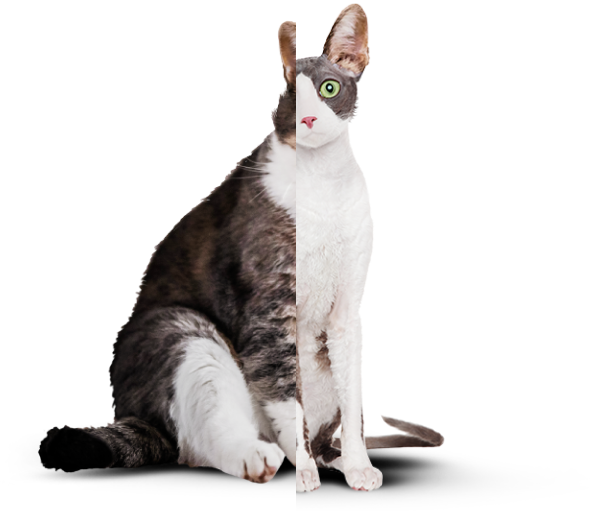
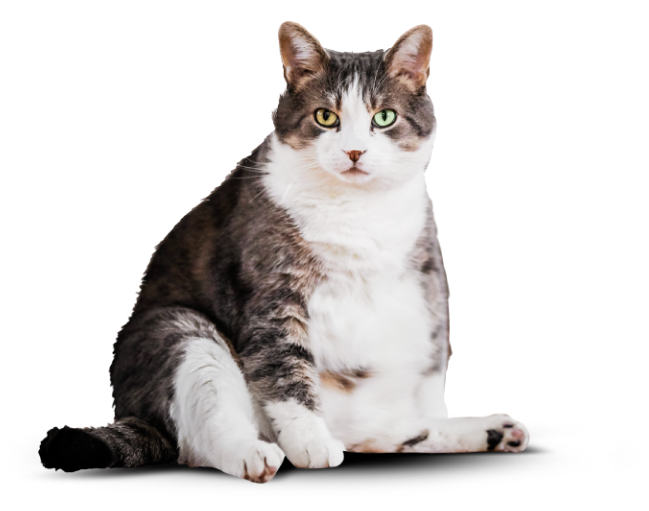
Векторная графика и оптимизация

Changed region(s): [[0.0609, 0.0, 0.8528, 0.9687]]

diff --git a/source/index.html b/source/index.html
@@ -45,6 +45,9 @@
         <h1 class="main-logo__title">Функциональное питание для котов</h1>
         <p class="main-logo__subtitle">Занялся собой? Займись котом!</p>
         <picture>
+          <source type="image/webp" media="(min-width: 1440px)" srcset="img/main-logo-desktop.webp 1x, img/main-logo-desktop@2x.webp 2x">
+          <source type="image/webp" media="(min-width: 768px)" srcset="img/main-logo-tablet.webp 1x, img/main-logo-tablet@2x.webp 2x">
+          <source type="image/webp" srcset="img/main-logo-mobile.webp 1x, img/main-logo-mobile@2x.webp 2x" width="280" height="270" alt="Банка корма.">
           <source media="(min-width: 1440px)" srcset="img/main-logo-desktop.png 1x, img/main-logo-desktop@2x.png 2x">
           <source media="(min-width: 768px)" srcset="img/main-logo-tablet.png 1x, img/main-logo-tablet@2x.png 2x">
           <img class="main-logo__image" src="img/main-logo-mobile.png" srcset="img/main-logo-mobile@2x.png 2x" width="280" height="270" alt="Банка корма.">
@@ -108,10 +111,17 @@
           </div>
         </div>
         <div class="main-example__range-wrapper">
-          <picture>
-            <source media="(min-width: 768px)" srcset="img/image-cat-tablet.png 1x, img/image-cat-tablet@2x.png 2x">
-            <img class="main-example__range-image" src="img/fat-cat-mobile.png" srcset="img/fat-cat-mobile@2x.png 2x" width="280" height="232" alt="фото толстого кота.">
-          </picture>
+          <div class="main-example__image-wrapper">
+            <div class="main-example__fat-cat-wrapper">
+              <picture>
+                <source media="(min-width: 768px)" srcset="img/image-cat-tablet.png 1x, img/image-cat-tablet@2x.png 2x">
+                <img class="main-example__fat-cat-image" src="img/fat-cat-mobile.png" srcset="img/fat-cat-mobile@2x.png 2x" width="280" height="232" alt="фото толстого кота.">
+              </picture>
+            </div>
+            <div class="main-example__skinny-cat-wrapper">
+              <img class="main-example__skinny-cat-image" src="img/skinny-cat-tablet.png" srcset="img/skinny-cat-tablet@2x.png 2x" alt="фото худого кота.">
+            </div>
+          </div>
           <div class="main-example__range-slider">
             <button class="main-example__button">было</button>
             <span class="visually-hidden">было</span>
@@ -150,24 +160,24 @@
         <ul class="social-container__list">
           <li class="social-container__item">
             <a href="#" class="social-container__link">
-              <svg class="social-container__image" width="23" height="16" viewBox="0 0 23 16" fill="none" xmlns="http://www.w3.org/2000/svg">
-                <path class="social-container__image" d="M0.0700912 3.99266C0.0700912 3.37082 0.493211 3.03552 1.33945 2.98675L4.60039 3.00503C4.81925 3.00503 4.96515 3.09648 5.03811 3.27938C5.37368 4.19385 5.74938 4.98334 6.16521 5.64785C6.58103 6.31237 7.12453 7.07747 7.79568 7.94317C7.85404 8.05291 7.94888 8.10778 8.08019 8.10778C8.18233 8.10778 8.26257 8.0651 8.32093 7.97975L8.38659 7.77857L8.40848 4.6145C8.40848 4.39503 8.34647 4.24871 8.22245 4.17556C8.09843 4.1024 7.86863 4.04753 7.53305 4.01095C7.27043 3.97437 7.13912 3.84025 7.13912 3.60859C7.13912 3.55981 7.14641 3.52323 7.161 3.49885C7.4674 2.70631 8.34282 2.31004 9.78726 2.31004L11.0129 2.29175C11.5673 2.29175 12.0269 2.40758 12.3916 2.63925C12.7564 2.87091 12.9388 3.2367 12.9388 3.73661V7.88831C13.0409 7.94927 13.1357 7.97975 13.2233 7.97975C13.4421 7.97975 13.6318 7.87002 13.7923 7.65054C15.3973 5.77283 16.2654 4.51696 16.3967 3.88293C16.3967 3.87073 16.4113 3.84025 16.4405 3.79148C16.5426 3.60859 16.7104 3.45008 16.9438 3.31595C17.1773 3.18183 17.3815 3.09039 17.5566 3.04161C17.615 3.01723 17.6806 3.00503 17.7536 3.00503H21.1459L21.3647 3.02332C21.6565 3.02332 21.8827 3.13916 22.0432 3.37082C22.1015 3.44398 22.1416 3.52323 22.1635 3.60859C22.1854 3.69394 22.2 3.77929 22.2073 3.86464C22.2146 3.94999 22.2182 3.99876 22.2182 4.01095V4.13898C22.1161 4.63889 21.8571 5.17233 21.4413 5.7393C21.0255 6.30627 20.4966 6.91897 19.8546 7.57739C19.2126 8.2358 18.8114 8.66865 18.6509 8.87593C18.5196 9.02225 18.4539 9.15637 18.4539 9.2783C18.4539 9.37584 18.5123 9.48558 18.629 9.60751L21.8243 12.9728C21.9994 13.1678 22.0869 13.3812 22.0869 13.6129C22.0869 13.8933 21.9556 14.125 21.693 14.3079C21.4304 14.4908 21.1167 14.5944 20.7519 14.6188L20.3799 14.6371H17.0533C17.0387 14.6371 17.0095 14.6401 16.9657 14.6462C16.9219 14.6523 16.8928 14.6554 16.8782 14.6554C16.5572 14.6554 16.2581 14.5396 15.9809 14.3079C15.8787 14.2103 15.193 13.491 13.9236 12.1497C13.8507 12.0644 13.7485 11.9851 13.6172 11.912C13.5589 12.1071 13.4823 12.3875 13.3874 12.7533C13.2926 13.1191 13.2233 13.3812 13.1795 13.5397L13.1139 13.8507C12.968 14.2774 12.6616 14.5335 12.1947 14.6188L11.8883 14.6371H9.74349C8.53249 14.6371 7.32514 14.1738 6.12144 13.2471C4.91773 12.3204 3.8344 11.1225 2.87144 9.65323C1.90848 8.18398 1.01117 6.47392 0.179519 4.52306C0.106567 4.36455 0.0700912 4.18775 0.0700912 3.99266ZM13.2233 8.72962C12.9169 8.72962 12.6397 8.65951 12.3916 8.51929C12.1436 8.37907 12.0196 8.18703 12.0196 7.94317V3.73661C12.0196 3.49275 11.9466 3.319 11.8007 3.21536C11.6548 3.11172 11.3995 3.0599 11.0347 3.0599L9.78726 3.09648C9.15988 3.09648 8.68569 3.18793 8.3647 3.37082C9.00668 3.62687 9.32767 4.04143 9.32767 4.6145V7.83344C9.29849 8.13826 9.15258 8.39126 8.88996 8.59245C8.62733 8.79363 8.33552 8.89422 8.01454 8.89422C7.57683 8.89422 7.24125 8.71742 7.0078 8.36383C5.86975 6.92506 5.02351 5.55945 4.46908 4.267L4.27211 3.79148L1.36134 3.77319C1.17166 3.77319 1.06588 3.78233 1.044 3.80062C1.02211 3.81891 1.01117 3.87073 1.01117 3.95608C1.01117 4.06582 1.02576 4.18165 1.05494 4.30358L1.51454 5.32779C2.74013 7.97366 4.07149 10.0586 5.50864 11.5828C6.94579 13.1069 8.35741 13.8689 9.74349 13.8689H11.932C12.0196 13.8689 12.0852 13.8476 12.129 13.8049C12.1728 13.7623 12.2093 13.6799 12.2384 13.558L12.2822 13.3751L12.698 11.7657C12.8148 11.5462 12.9169 11.3999 13.0044 11.3267C13.1649 11.1926 13.3546 11.1255 13.5735 11.1255C13.9236 11.1255 14.2811 11.3023 14.6458 11.6559L16.5061 13.6312C16.6228 13.7897 16.7469 13.8689 16.8782 13.8689H20.4893C20.927 13.8689 21.1459 13.7775 21.1459 13.5946C21.1459 13.5336 21.124 13.4727 21.0802 13.4117L17.9068 10.1013C17.6588 9.84527 17.5347 9.57093 17.5347 9.2783C17.5347 8.98567 17.6515 8.70523 17.8849 8.43699C18.0746 8.19313 18.443 7.78771 18.9901 7.22074C19.5373 6.65377 20.0151 6.12338 20.4236 5.62956C20.8322 5.13575 21.1021 4.68766 21.2334 4.28529L21.299 4.04753C21.2845 4.02314 21.2772 3.98352 21.2772 3.92865C21.2772 3.87378 21.2699 3.82806 21.2553 3.79148H17.8193C17.6004 3.86464 17.4253 3.97437 17.294 4.12069L17.1627 4.46819C16.7979 5.3095 15.8423 6.60805 14.2957 8.36383C13.9893 8.60769 13.6318 8.72962 13.2233 8.72962Z" fill="#666666"/>
-                </svg>
+              <svg class="social-container__image" width="23" height="16" viewBox="0 0 23 16" fill="none">
+                <use xlink:href="img/sprite.svg#vk"></use>
+              </svg>
               <span class="visually-hidden">vkontakte</span>
             </a>
           </li>
           <li class="social-container__item">
             <a href="#" class="social-container__link">
-              <svg class="social-container__image" width="16" height="16" viewBox="0 0 16 16" fill="none" xmlns="http://www.w3.org/2000/svg">
-                <path class="social-container__image" d="M7.98438 0.0625C9.31771 0.0625 10.4062 0.078125 11.25 0.109375C11.9688 0.140625 12.6094 0.265625 13.1719 0.484375C13.7135 0.692708 14.1823 0.994792 14.5781 1.39062C14.974 1.78646 15.276 2.25521 15.4844 2.79687C15.7031 3.35937 15.8281 4 15.8594 4.71875C15.8906 5.5625 15.9062 6.65104 15.9062 7.98437C15.9062 9.31771 15.8906 10.4062 15.8594 11.25C15.8281 11.9687 15.7031 12.6094 15.4844 13.1719C15.276 13.7135 14.974 14.1823 14.5781 14.5781C14.1823 14.974 13.7135 15.276 13.1719 15.4844C12.6094 15.7031 11.9688 15.8281 11.25 15.8594C10.4062 15.8906 9.31771 15.9062 7.98438 15.9062C6.65104 15.9062 5.5625 15.8906 4.71875 15.8594C4 15.8281 3.35938 15.7031 2.79688 15.4844C2.25521 15.276 1.78646 14.974 1.39062 14.5781C0.994792 14.1823 0.692708 13.7135 0.484375 13.1719C0.265625 12.6094 0.140625 11.9687 0.109375 11.25C0.078125 10.4062 0.0625 9.31771 0.0625 7.98437C0.0625 6.65104 0.078125 5.5625 0.109375 4.71875C0.140625 4 0.265625 3.35937 0.484375 2.79687C0.692708 2.25521 0.994792 1.78646 1.39062 1.39062C1.78646 0.994792 2.25521 0.692708 2.79688 0.484375C3.35938 0.265625 4 0.140625 4.71875 0.109375C5.5625 0.078125 6.65104 0.0625 7.98438 0.0625ZM7.98438 1.09375C6.59896 1.09375 5.46875 1.10937 4.59375 1.14062C4.03125 1.16146 3.51042 1.26042 3.03125 1.4375C2.28125 1.75 1.75 2.28125 1.4375 3.03125C1.26042 3.51042 1.16146 4.03125 1.14062 4.59375C1.10938 5.46875 1.09375 6.59896 1.09375 7.98437C1.09375 9.36979 1.10938 10.5 1.14062 11.375C1.16146 11.9375 1.26042 12.4583 1.4375 12.9375C1.75 13.6875 2.28125 14.2187 3.03125 14.5312C3.51042 14.7083 4.03125 14.8073 4.59375 14.8281C5.46875 14.8594 6.59896 14.875 7.98438 14.875C9.36979 14.875 10.5 14.8594 11.375 14.8281C11.9375 14.8073 12.4583 14.7083 12.9375 14.5312C13.6875 14.2187 14.2188 13.6875 14.5312 12.9375C14.7083 12.4583 14.8073 11.9375 14.8281 11.375C14.8594 10.5 14.875 9.36979 14.875 7.98437C14.875 6.59896 14.8594 5.46875 14.8281 4.59375C14.8073 4.03125 14.7083 3.51042 14.5312 3.03125C14.2188 2.28125 13.6875 1.75 12.9375 1.4375C12.4583 1.26042 11.9375 1.16146 11.375 1.14062C10.5 1.10937 9.36979 1.09375 7.98438 1.09375ZM7.98438 11.1562C8.85938 11.1562 9.60677 10.8464 10.2266 10.2266C10.8464 9.60677 11.1562 8.85937 11.1562 7.98437C11.1562 7.10937 10.8464 6.36198 10.2266 5.74219C9.60677 5.1224 8.85938 4.8125 7.98438 4.8125C7.10938 4.8125 6.36198 5.1224 5.74219 5.74219C5.1224 6.36198 4.8125 7.10937 4.8125 7.98437C4.8125 8.85937 5.1224 9.60677 5.74219 10.2266C6.36198 10.8464 7.10938 11.1562 7.98438 11.1562ZM7.98438 3.92187C9.10938 3.92187 10.0677 4.31771 10.8594 5.10937C11.651 5.90104 12.0469 6.85937 12.0469 7.98437C12.0469 9.10937 11.651 10.0677 10.8594 10.8594C10.0677 11.651 9.10938 12.0469 7.98438 12.0469C6.85938 12.0469 5.90104 11.651 5.10938 10.8594C4.31771 10.0677 3.92188 9.10937 3.92188 7.98437C3.92188 6.85937 4.31771 5.90104 5.10938 5.10937C5.90104 4.31771 6.85938 3.92187 7.98438 3.92187ZM13.1719 3.76562C13.1719 4.02604 13.0781 4.2474 12.8906 4.42969C12.7031 4.61198 12.474 4.70312 12.2031 4.70312C11.9427 4.70312 11.7214 4.61198 11.5391 4.42969C11.3568 4.2474 11.2656 4.02604 11.2656 3.76562C11.2656 3.49479 11.3568 3.26562 11.5391 3.07812C11.7214 2.89062 11.9427 2.79687 12.2031 2.79687C12.4635 2.79687 12.6901 2.89323 12.8828 3.08594C13.0755 3.27865 13.1719 3.50521 13.1719 3.76562Z" fill="#666666"/>
-                </svg>
+              <svg class="social-container__image" width="16" height="16" viewBox="0 0 16 16" fill="none">
+                <use xlink:href="img/sprite.svg#instagram"></use>
+              </svg>
               <span class="visually-hidden">instagram</span>
             </a>
           </li>
           <li class="social-container__item">
             <a href="#" class="social-container__link">
               <svg class="social-container__image" width="13" height="20" viewBox="0 0 13 20" fill="none" xmlns="http://www.w3.org/2000/svg">
-                <path class="social-container__image" d="M11.5 0.833252H8.75001C7.53443 0.833252 6.36864 1.30674 5.5091 2.14957C4.64956 2.99239 4.16667 4.1355 4.16667 5.32743V8.02394H1.41667V11.6193H4.16667V18.81H7.83334V11.6193H10.5833L11.5 8.02394H7.83334V5.32743C7.83334 5.08905 7.92992 4.86042 8.10182 4.69186C8.27373 4.52329 8.50689 4.4286 8.75001 4.4286H11.5V0.833252Z" stroke="#666666" stroke-width="1.1" stroke-linecap="round" stroke-linejoin="round"/>
+                <use xlink:href="img/sprite.svg#facebook"></use>
                 </svg>
               <span class="visually-hidden">facebook</span>
             </a>
@@ -177,7 +187,8 @@
       <div class="page-footer__academy-container">
         <a class="page-footer__academy-link" href="#">HTML Academy</a>
         <a class="page-footer__academy-link-logo" href="#">
-          <svg width="27" height="34" fill="none" xmlns="http://www.w3.org/2000/svg"><path class="academy-logo" d="M13.64.02L13.5 0 0 1.4v24.61L13.5 34 27 26.01V1.41L13.64 0zm11.6 25L13.5 31.96 1.77 25.02v-10.1l11.68 6.93.02 1.25-8.02-4.75v1.23l8.04 4.8.02 1.3-8.05-4.76v1.22l8.04 4.81 8.12-4.83V16.9l3.62-2.15v10.26zm0-11.57L22 15.33l-1.48.88-7.06-4.19-.01 1.23 6.04 3.57-.06.03-.13.07-.86.5-4.98-2.95-.01 1.22 3.93 2.33-.93.61-.02.01-2.97-1.74-.01 1.23 1.94 1.13-1.98 1.19L1.8 13.58l11.63-6.96 11.8 6.83zm0-1.22L13.43 5.3 1.77 12.22V2.99L13.5 1.76 25.23 3v9.24z" fill="#666"/></svg>
+          <svg width="27" height="34" fill="none" xmlns="http://www.w3.org/2000/svg"><use xlink:href="img/sprite.svg#html-logo"></use>
+          </svg>
         </a>
       </div>
     </div>

diff --git a/source/less/blocks/main-example.less b/source/less/blocks/main-example.less
@@ -265,22 +265,65 @@
   }
 }
 
-.main-example__range-image {
-  margin-bottom: 20px;
+.main-example__image-wrapper {
+  @media (min-width: @tablet-width) {
+    display: flex;
+    width: 592px;
+    height: 520px;
+    position: absolute;
+    top: -169px;
+  }
+
+  @media (min-width: @desktop-width) {
+    display: flex;
+    width: 592px;
+    height: 520px;
+    position: absolute;
+    top: -182px;
+    left: 85px;
+  }
+}
+
+.main-example__fat-cat-wrapper {
+  @media (min-width: @tablet-width) {
+    position: relative;
+    width: 296px;
+    height: 511px;
+    overflow: hidden;
+  }
+}
+
+.main-example__skinny-cat-wrapper {
+  @media (max-width: @mobile-width-only) {
+    display: none;
+  }
+
+  display: flex;
+  justify-content: flex-end;
+  position: absolute;
+  top: 0;
+  right: 0;
+  width: 296px;
+  height: 511px;
+  overflow: hidden;
+}
+
+.main-example__fat-cat-image {
+  margin-bottom: 16px;
 
   @media (min-width: @tablet-width) {
     position: absolute;
-    top: -170px;
-    right: 0;
+    top: 0;
     left: 0;
-    margin: auto;
-    width: 592px;
+    width: 654px;
     height: 511px;
   }
 
   @media (min-width: @desktop-width) {
-    top: -178px;
-    left: 84px;
+    position: absolute;
+    width: 651px;
+    left: 0;
+    height: 512px;
   }
 }
 

diff --git a/source/less/blocks/main-logo.less b/source/less/blocks/main-logo.less
@@ -23,7 +23,7 @@
   }
 
   @media (min-width: @desktop-width) {
-    padding: 82px 110px 321px;
+    padding: 80px 110px 321px;
     width: 100%;
     max-width: 1440px;
     box-sizing: border-box;
@@ -39,7 +39,7 @@
   background-size: 320px auto;
   background-position: center;
   background-repeat: no-repeat;
-  padding: 27px 35px 164px;
+  padding: 27px 35px 162px;
 
   @media (min-resolution: 2dppx) {
     background-image: url("../img/main-bg@2x.png");
@@ -113,6 +113,7 @@
 }
 
 .main-logo__image {
+  display: block;
   position: absolute;
   top: 55%;
   left: 0;

diff --git a/source/less/blocks/location.less b/source/less/blocks/location.less
@@ -125,6 +125,7 @@
 }
 
 .location__map-container {
+  height: 362px;
   background-image: url("../img/location-map.png");
   background-size: cover;
   background-position: center;
@@ -135,6 +136,7 @@
   }
 
   @media (min-width: @tablet-width) {
+    height: 400px;
     background-image: url("../img/location-map-tablet.png");
 
     @media (min-resolution: 2dppx) {

diff --git a/source/less/blocks/page-header.less b/source/less/blocks/page-header.less
@@ -15,7 +15,7 @@
     align-items: end;
     padding: 0 30px;
     min-height: 76px;
-    max-width: 768px;
+    max-width: 1440px;
   }
 
   @media (min-width: @desktop-width) {
